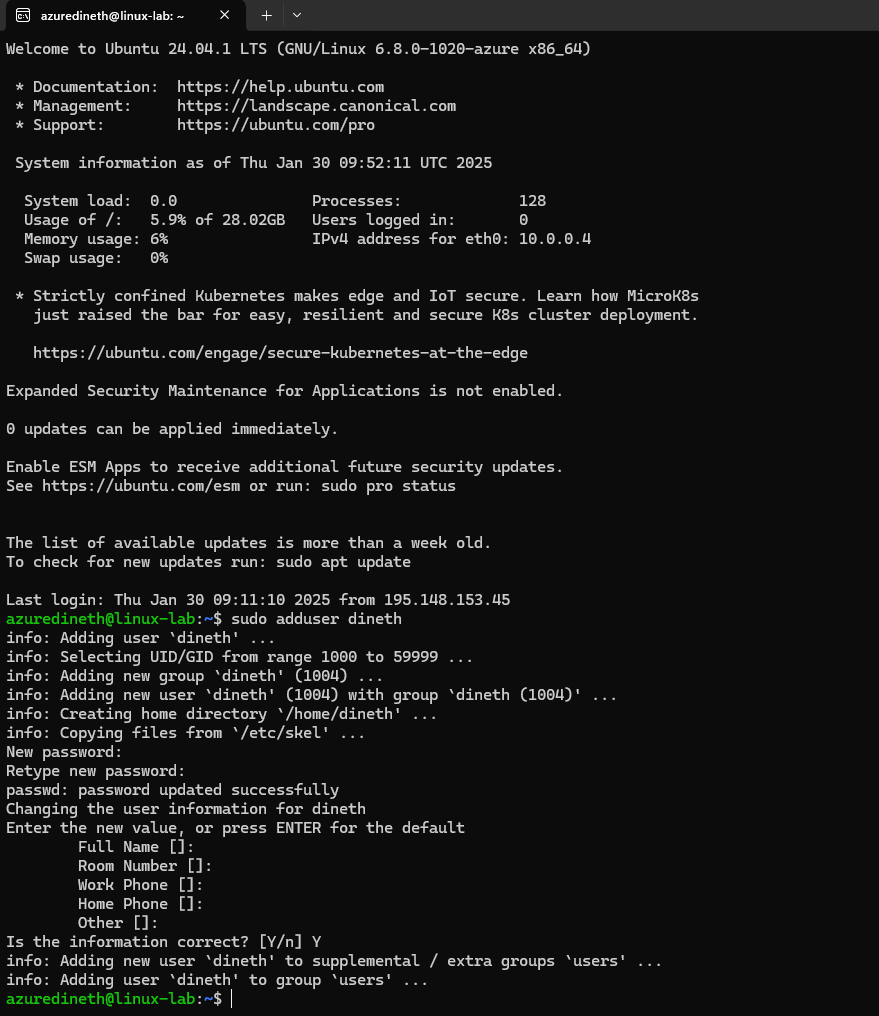
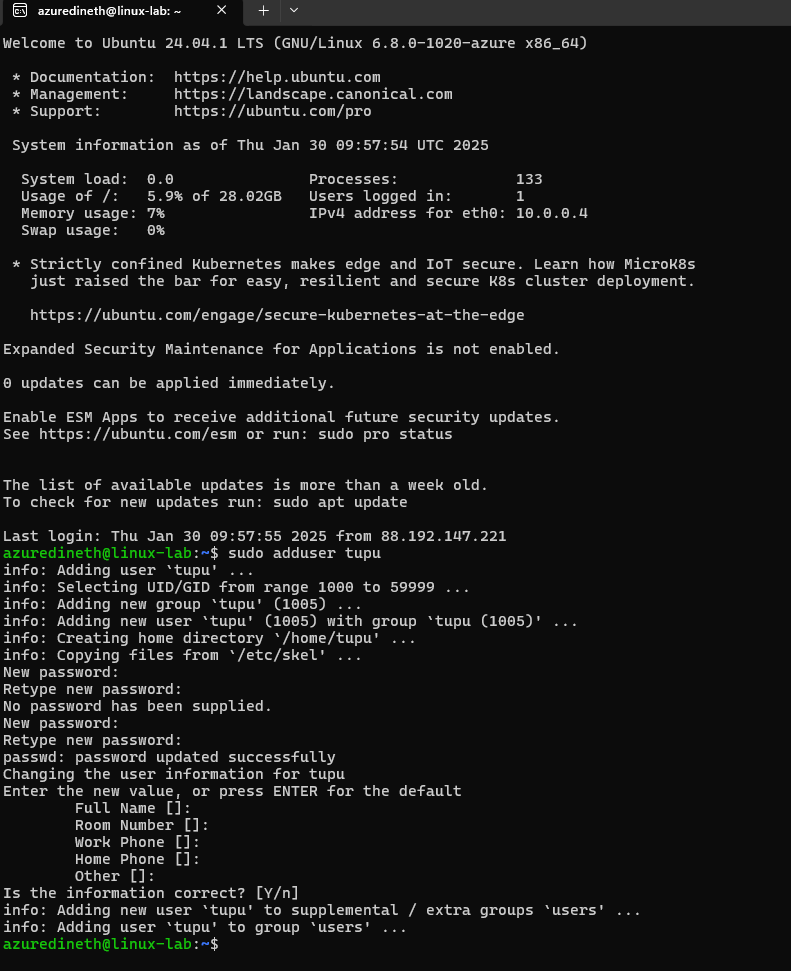
Update

diff --git a/Assignment 3/Readme.md b/Assignment 3/Readme.md
@@ -10,10 +10,67 @@
 
 ---
 
+Task submission:
+Submit documentation using GitHub repository. Make Markdown file to explain how you accomplished task points 1-5. Make screen captures of relevant points in each and write an explanation for fifth task point. Submit only URL to markdown file. You can use basic markdown guide on Github as reference to creating markdown file. Repository can be same as in assignment 1.
+
+---
+
 1. Create the Tupu user using the adduser script:
 
-sudo adduser dineth
+sudo adduser tupu
 
 ![](Images/1.png)
 
-2.
+---
+
+2. Create the Lupu user using the useradd command. Try to create a user profile, home directory, and user group similar to Tupu.
+
+- sudo useradd -m -d /home/lupu -s /bin/bash -g lupu lupu
+- -m: Create the user's home directory.
+- -d /home/lupu: Specify the home directory path.
+- -s /bin/bash: Set the login shell to /bin/bash.
+- -g lupu: Add the user to the lupu group.
+
+![](Images/2.png)
+
+---
+
+3. Create the Hupu system user with the login shell set to /bin/false
+
+- sudo useradd --system --shell /bin/false hupu
+- --system: Create a system account.
+- --shell /bin/false: Set the login shell to /bin/false to prevent login.
+
+![](Images/3.png)
+
+---
+
+4. Add the users Tupu and Lupu to the sudo users.
+   You can use the visudo command to edit the sudoers file directly, or add the users to the sudo group:
+
+### Using visudo to edit sudoers file:
+
+- sudo visudo
+
+Add the following lines:
+
+tupu ALL=(ALL:ALL) ALL
+lupu ALL=(ALL:ALL) ALL
+
+- Use Ctrl+x and press Y to save the updated file.
+
+![](Images/4.png)
+
+### Adding users to the sudo group:
+
+- sudo usermod -aG sudo tupu
+- sudo usermod -aG sudo lupu
+
+![](Images/5.png)
+
+---
+
+5. Create a directory /opt/projekti and add both users (Tupu and Lupu) as owners. Only Tupu and Lupu should have access to list files in the directory, read, and modify them.
+   This wont be instructed. Idea is to create a group of users, assign this group to owner of folder and files.
+   To ensure that the permission structure is maintained for newly created files and folders, we should set up a common group and use the setgid bit on the directory.
+   Idea is that any files or directories created within /opt/projekti will automatically inherit the projekti group ownership, maintaining the desired permission structure.
